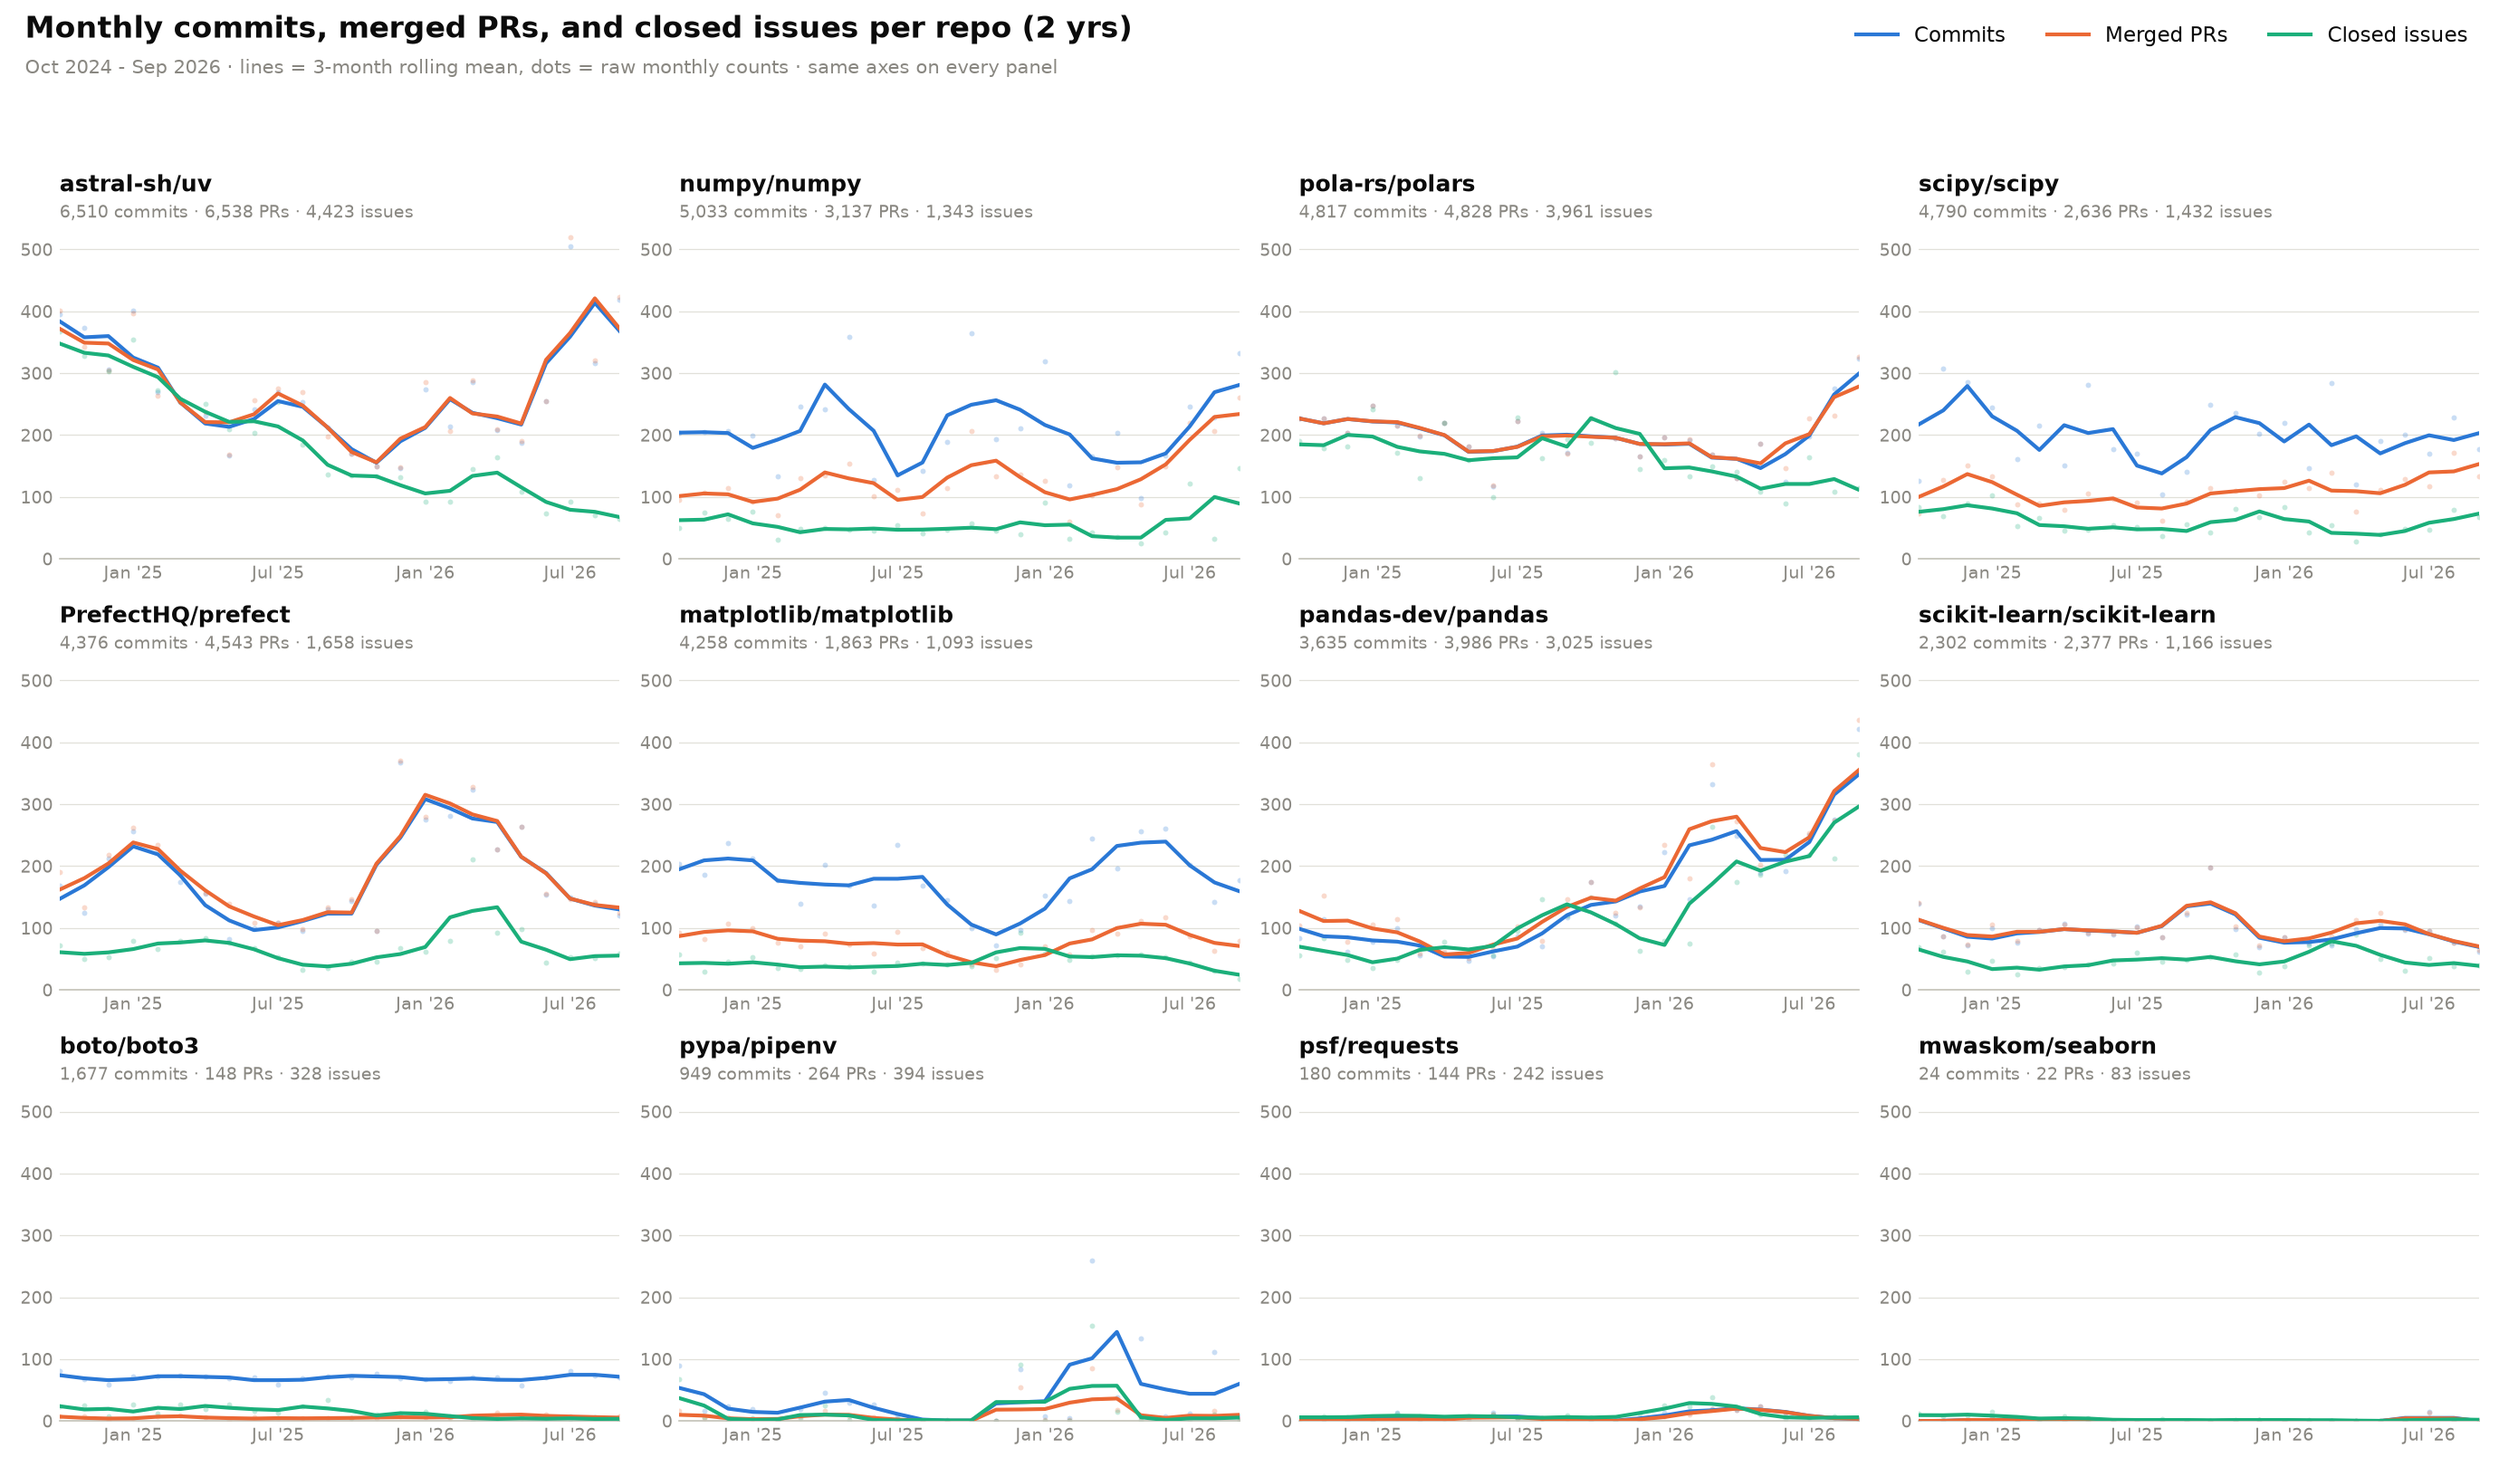
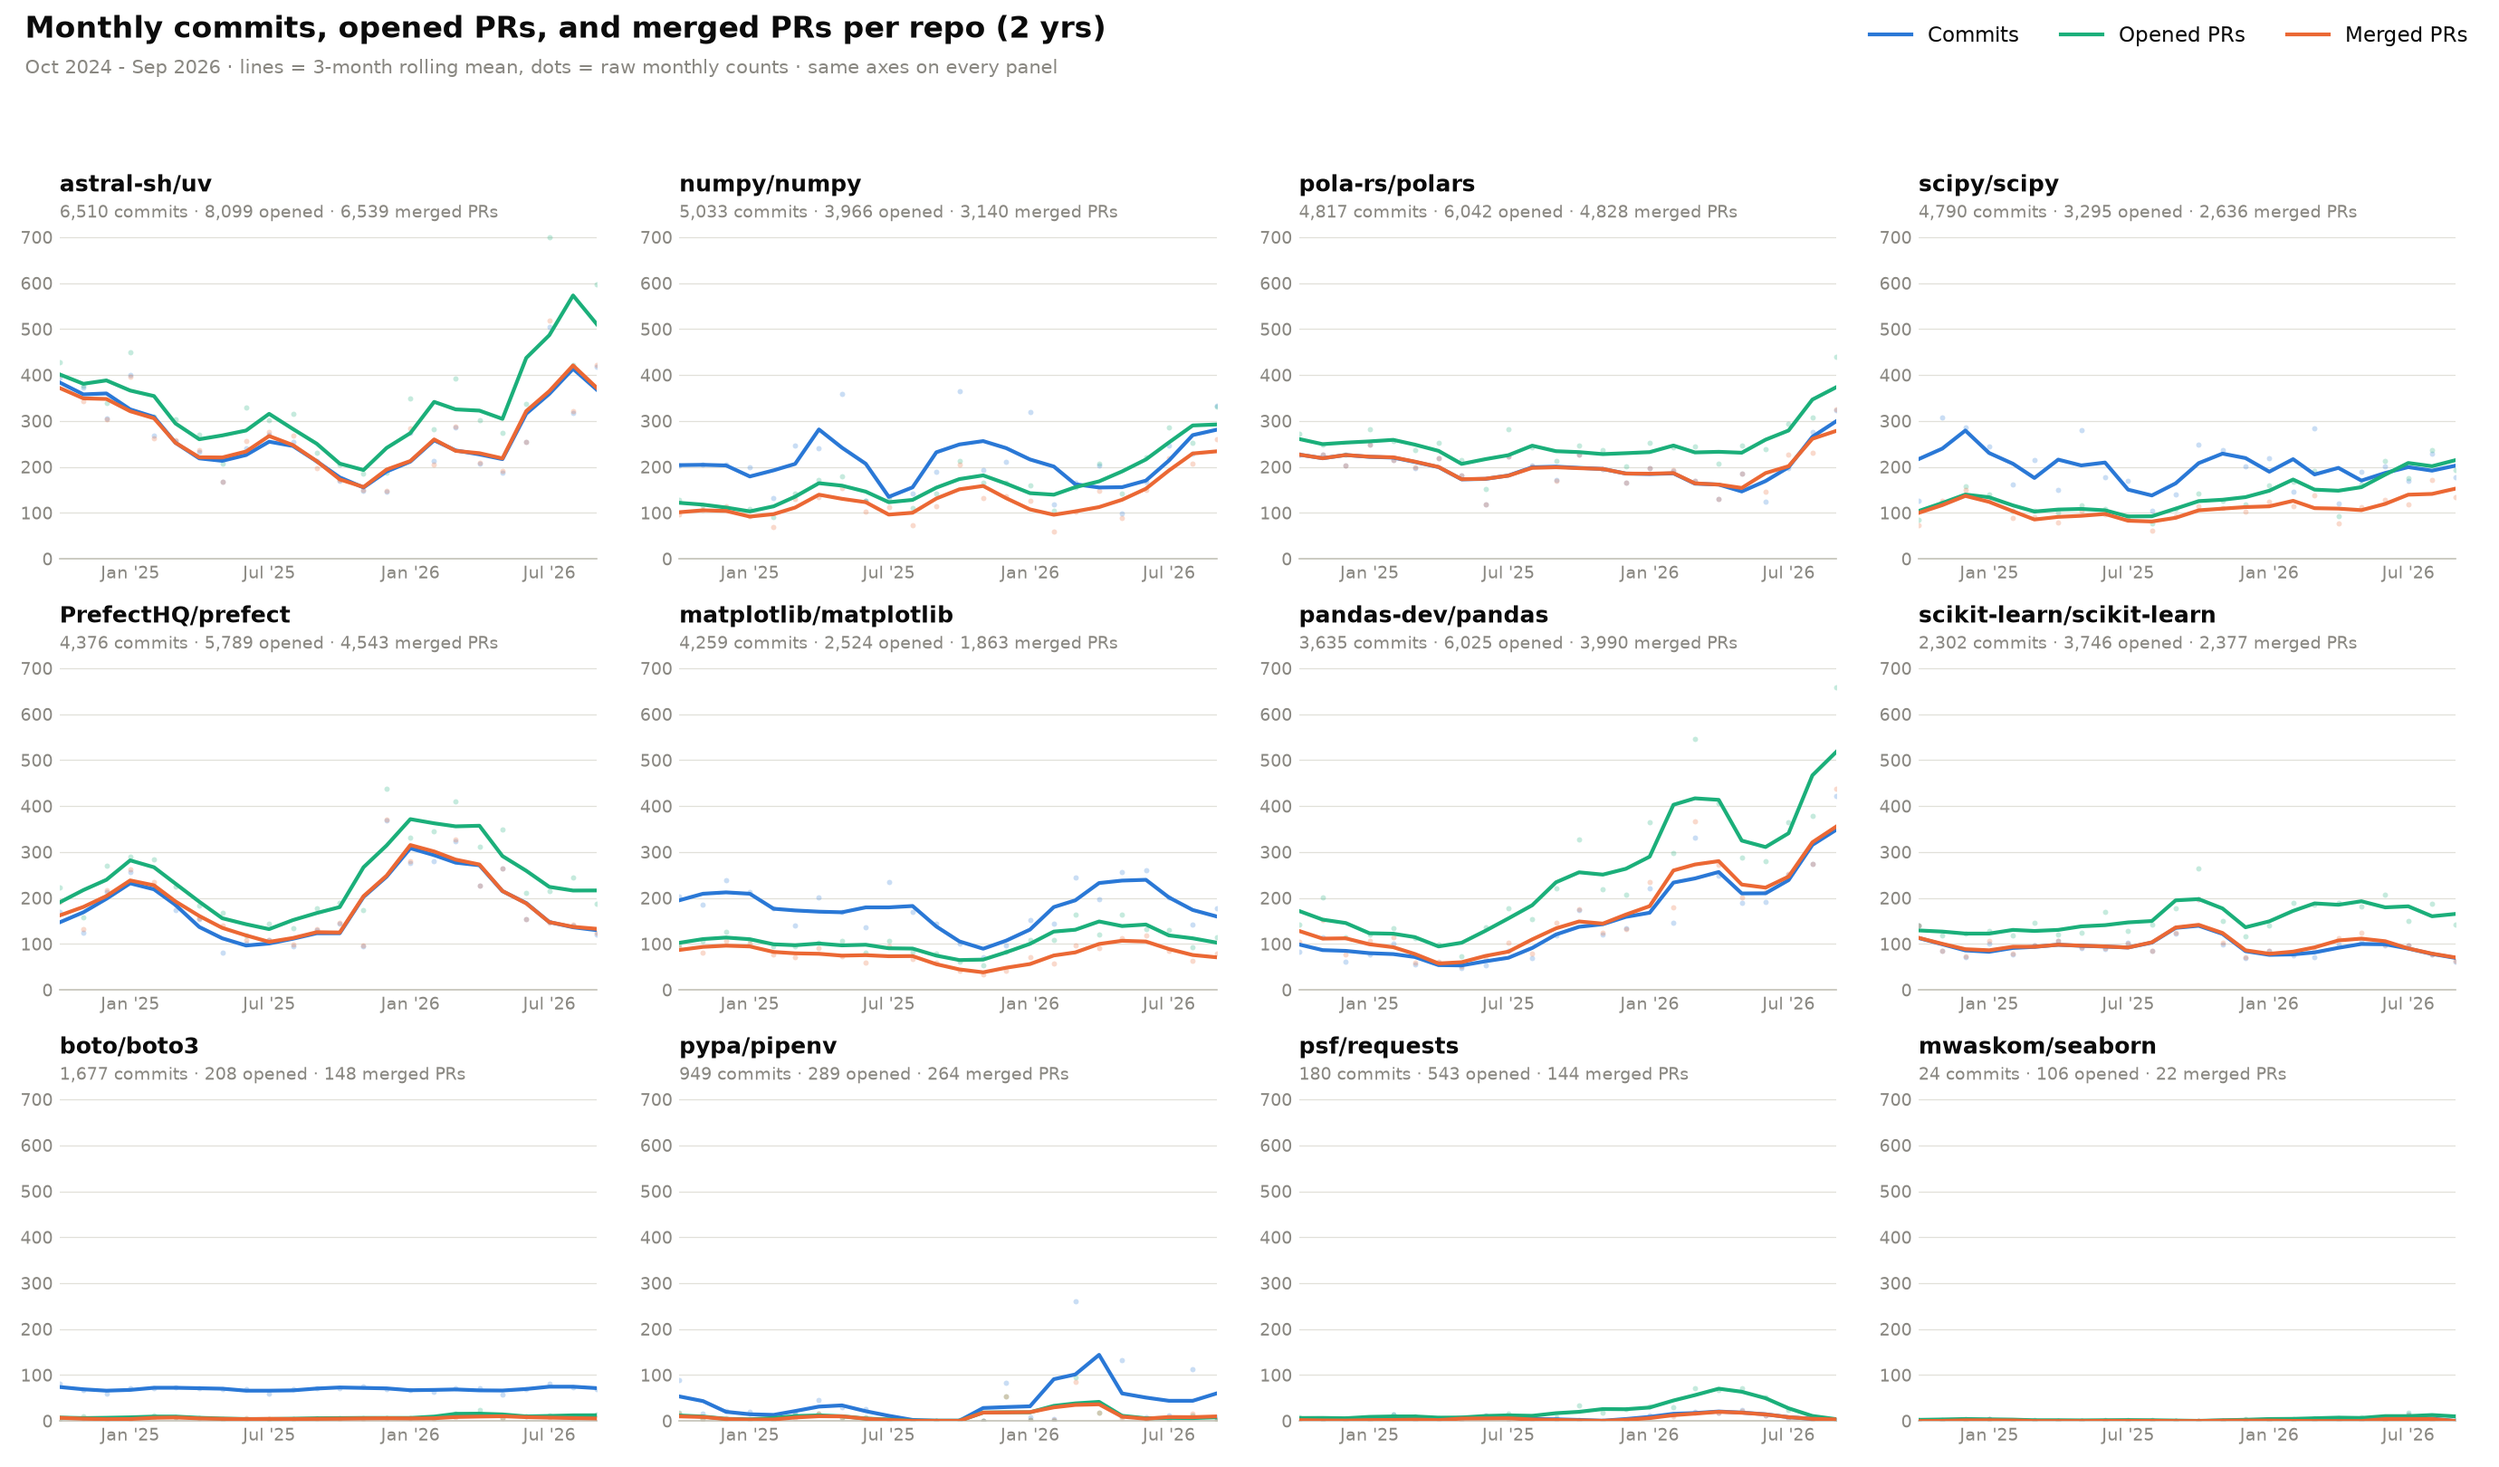
Cleaner, simpler, shorter

diff --git a/ASSESSING-HEALTH.md b/ASSESSING-HEALTH.md
@@ -6,15 +6,15 @@ Open Source Software (OSS) is a collaborative social project, and GitHub gives u
 
 Here are SOME ways to ascertain software project health:
 
-1. **Maintainer responsiveness.** Measure the median time to first response on new issues and pull requests. A project that acknowledges contributions within days is healthy even if it doesn’t move fast, while one that leaves issues unanswered for months is often quietly abandoned.
+1. **Maintainer responsiveness.** Measure the median time to first review on new pull requests. A project that acknowledges contributions within days is healthy even if it doesn’t move fast, while one that leaves PRs unreviewed for months is often quietly abandoned.
 2. **"Bus factor" and contributor diversity.** Look at how many people account for most of the commits and merges, and whether they come from more than one organization. If one person did 90% of the work, the project is fragile no matter how active it looks. GitHub’s Insights → Contributors graph is a good starting point.
 3. **Recency and consistency of activity.** Check the date of the last commit and release, and whether activity is steady or bursty. Steady monthly activity is a better sign than a large total commit count from three years ago.
 4. **Release practices.** Look for regular tagged releases, semantic versioning, a maintained changelog, and availability on PyPI or conda-forge. This shows the maintainers think about downstream users, not just their own development.
-5. **Issue resolution dynamics.** Compare open and closed issue counts, look at the age of the open backlog, and check how many issues are closed as resolved versus closed as stale. A growing pile of old, unlabeled issues suggests maintainers are overwhelmed.
+5. **PR backlog dynamics.** Compare opened, merged, and closed-unmerged PR counts, look at the age of the open backlog, and check how many open PRs have gone stale. A growing pile of old, unreviewed PRs suggests maintainers are overwhelmed.
 6. **Pull request acceptance and review quality.** Look at the merge rate for PRs from outside contributors, time to merge, and whether PRs get substantive review comments rather than rubber-stamp approvals. This shows whether the project is genuinely open to the community.
 7. **Testing and continuous integration.** Check for passing CI, test coverage, and testing across multiple Python versions and operating systems. For data science packages, also look at whether numerical results are tested against reference values.
 8. **Documentation quality.** Assess the README, API reference, tutorials, example notebooks, and docstrings. Also check whether the docs are versioned and kept in sync with releases.
-9. **Community and governance infrastructure.** Look for CONTRIBUTING, CODE_OF_CONDUCT, LICENSE, and GOVERNANCE files, issue and PR templates, and “good first issue” labels. These indicate a project designed to outlive its founders.
+9. **Community and governance infrastructure.** Look for CONTRIBUTING, CODE_OF_CONDUCT, LICENSE, and GOVERNANCE files and PR templates. These indicate a project designed to outlive its founders.
 10. **Dependency and security hygiene.** Check whether dependencies are reasonably current, whether Dependabot or similar is in use, whether there’s a security policy, and whether there are any unaddressed vulnerability advisories. The OpenSSF Scorecard automates much of this.
 11. **Real-world adoption.** Look at download counts (pypistats.org (has an API), pepy.tech), GitHub’s “Used by” dependents graph, and academic citations. Adoption creates pressure and incentive to keep maintaining the package.
 12. **Institutional backing and funding.** Check for fiscal sponsorship (such as NumFOCUS), GitHub Sponsors, grants, or company support. Funded maintainers are less likely to burn out.
@@ -38,7 +38,7 @@ Observations:
 - Trends upwards/downwards are now visible, but not all commits are "meaningful" in the same way.
 - Upward trends over the last 1-2 years might also simply represent AI adoption in the development process, an even less accurate measure of meaningful health.
 
-Consider this plot displaying commit, issue, and PR activity for the same projects:
+Consider this plot displaying several activity measures for the same projects:
 
 ![Github Activity](images/activity_trends.png)
 

diff --git a/DEPLOYMENTS.md b/DEPLOYMENTS.md
@@ -68,6 +68,7 @@ Instead of passing `GIT_URL` as a plain string, wrap it in a `GitRepository` obj
 from prefect.blocks.system import Secret
 from prefect.runner.storage import GitRepository
 
+# be sure to use your PAT block below
 if __name__ == "__main__":
     <flow_function_name>.from_source(
         source=GitRepository(
@@ -105,3 +106,7 @@ You should see your deployment listed in https://sds-prefect.pods.uvarc.io/v2/de
 Select it to see details and any previous runs. Use the blue "Run" button in the upper-right to trigger a run, which you can then follow like any other run.
 
 See the [NYC-Taxi-Monthly](https://sds-prefect.pods.uvarc.io/v2/deployments/deployment/987975de-1d75-48d3-810e-251d9e077b16?tab=Runs) sample deployment and try running it for yourself.
+
+The savvy BSDS student will recognize that some outputs such as plots will not be available since they are built into the remote environment executing the code. This is okay ;^)
+
+(In production the plots would be copied off to remote storage like S3, etc.)
